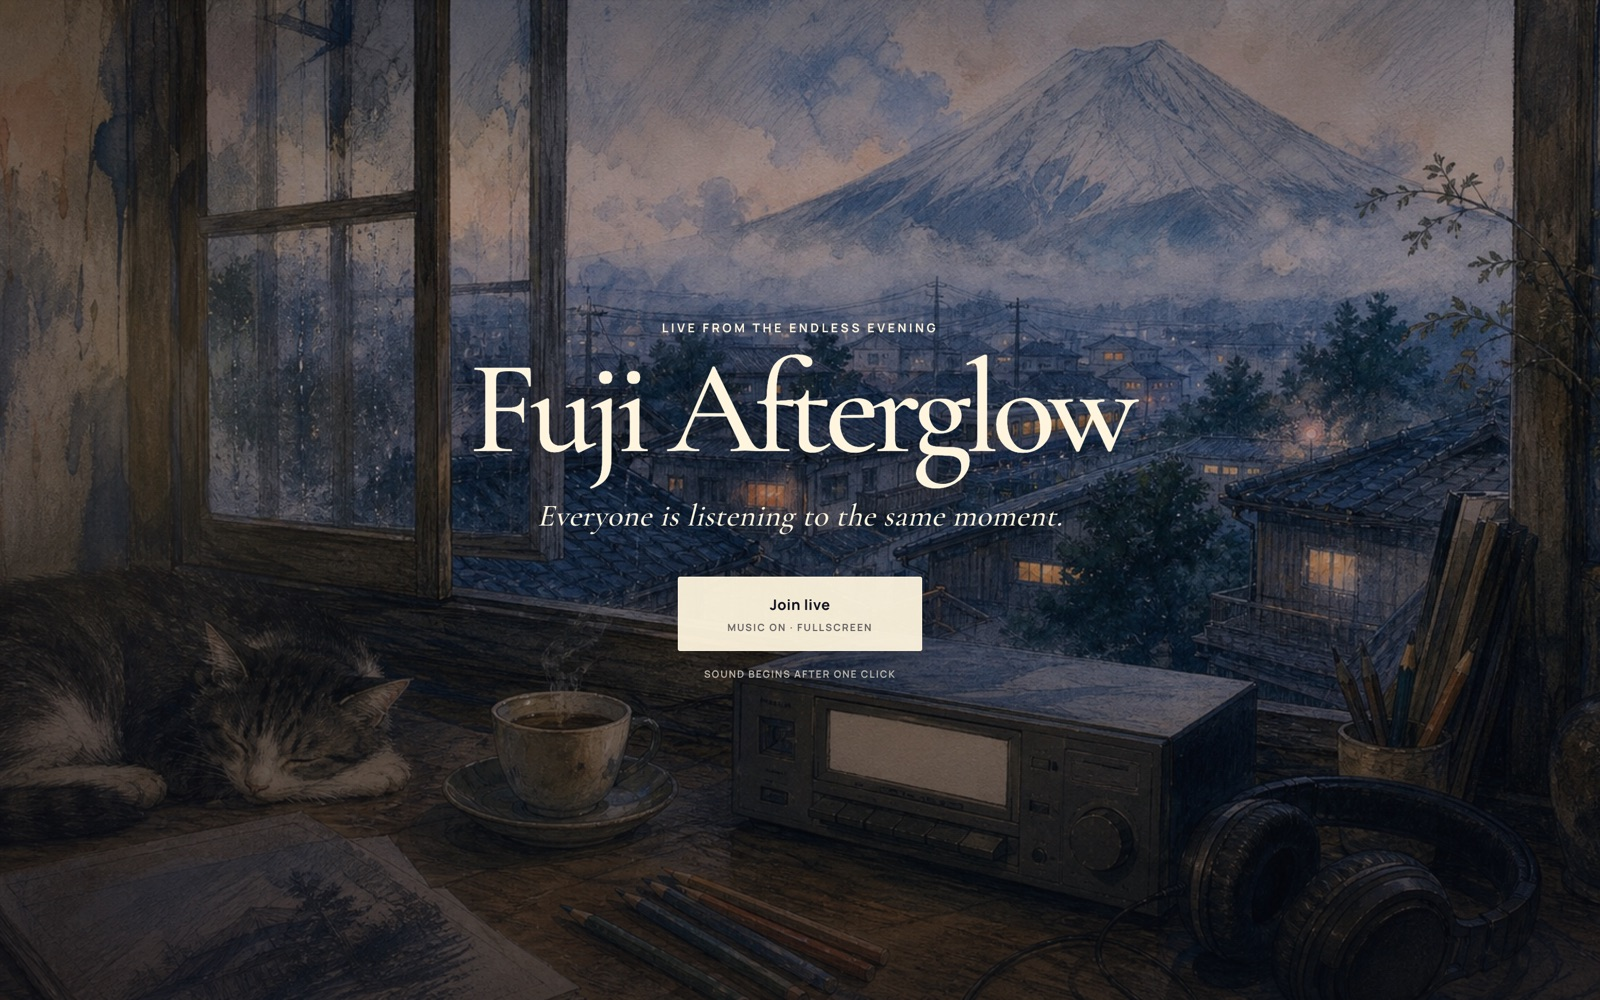
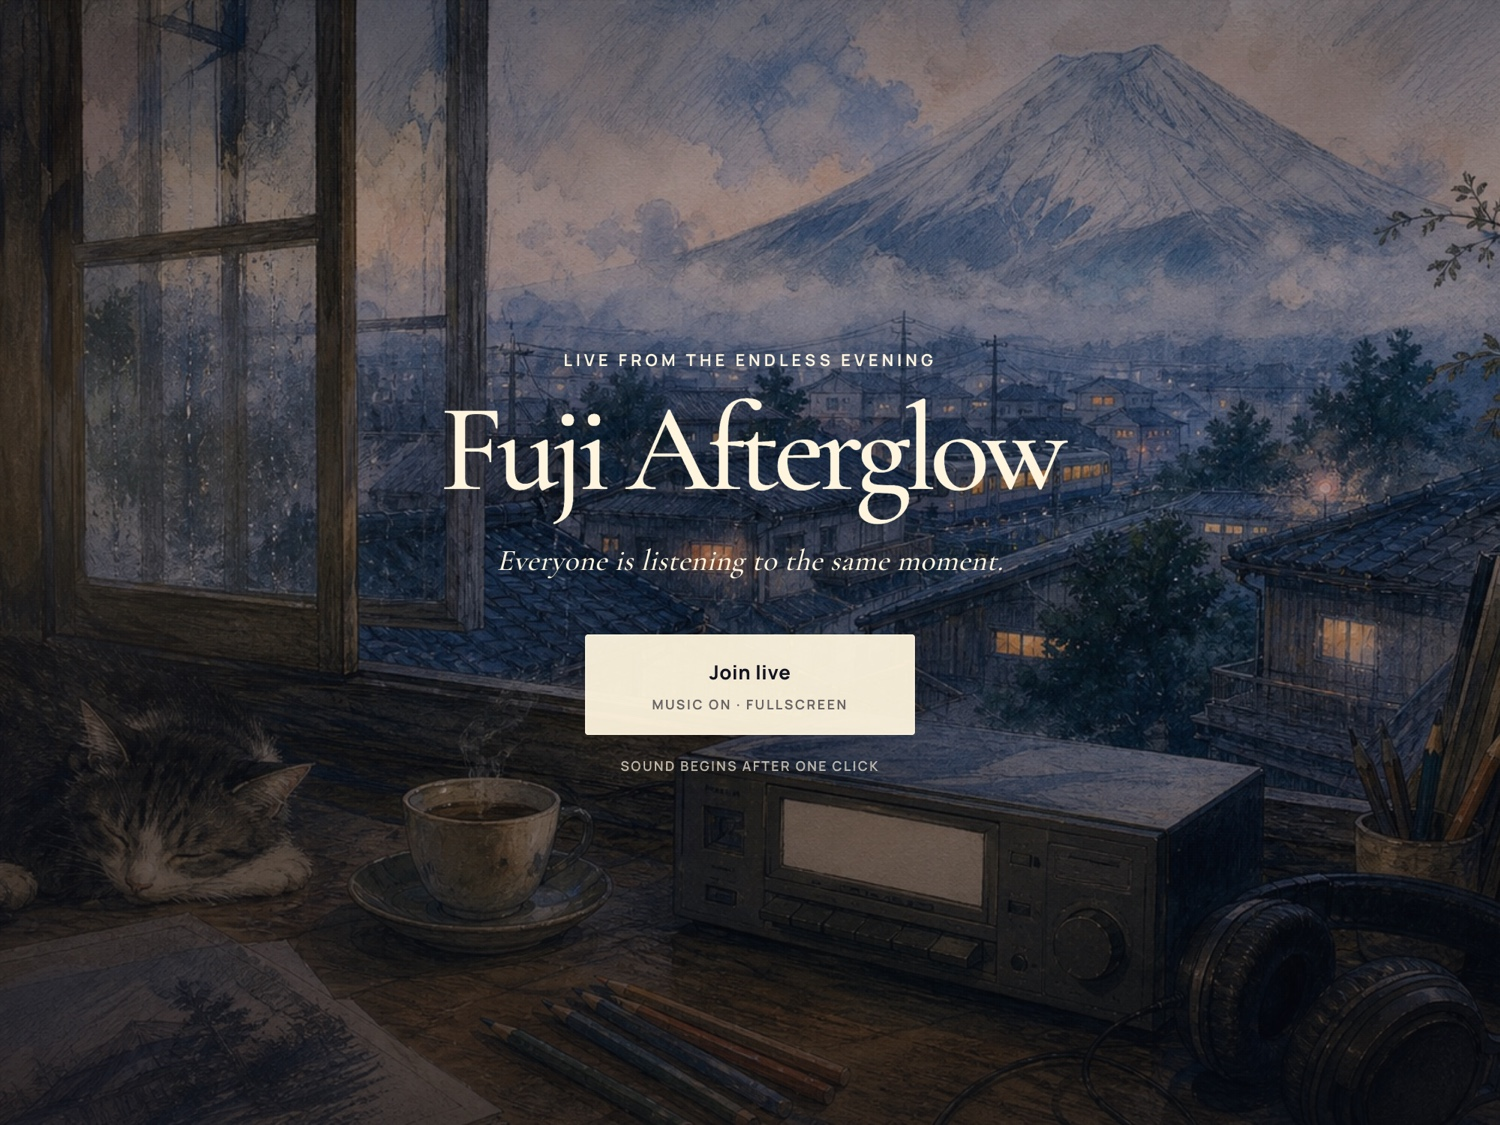
Recapture screenshots at a narrower viewport; fix side-cropping
The previews looked mushy and it wasn't an image-quality problem: the
sources were already 1600x1000 against a ~380px tile. The cause was
scale — a 1440px page squeezed into 380px is a 3.8x reduction, so 13px
body text rendered at 3.4px.

Recaptured at a 1000x750 viewport (DPR 2 -> downscaled to 1500x1125,
q92 since text-heavy shots put JPEG artefacts on glyph edges). At 1000px
it's a 2.6x reduction and the hero headlines survive at ~12-15px.

Also fixed side-cropping. The image box is not the container: the
container is aspect-16/10 but the img carries a parallax overscan, so
its box is 1.6/overscan. At h-[120%] that box was 1.33, and 16:10
sources inside it made object-cover crop the sides — which clipped
"Leland Plays Piano" to "eland Plays Piano". Sources are now 4:3 and the
overscan is h-[112%] (box 1.43), so cover trims top and bottom instead,
which is harmless with top-aligned content. Parallax range cut to
±13-19px to stay inside the smaller overscan.

gcoolers is captured at scroll 330 rather than the top — the top of that
page is a wordmark on black, nearly empty at tile size. 330 catches the
install command and the live TUI with its temperature bars.

These stay real screenshots. Each tile names a host and links to it, so
a generated image there would be a fabricated picture of a real site.

Claude-Session: https://claude.ai/code/session_01QviESns6p6ZCC7PWfhugud

diff --git a/src/components/VisualIndex.tsx b/src/components/VisualIndex.tsx
@@ -48,8 +48,11 @@ function Tile({ project: p, index }: { project: Project; index: number }) {
     offset: ["start end", "end start"],
   });
   // each tile drifts at its own rate, so the row never moves as one slab
-  // Range kept inside the image's 20% vertical overflow so no edge is ever exposed.
-  const y = useTransform(scrollYProgress, [0, 1], [20 + index * 4, -20 - index * 4]);
+  // Overscan is 12%, so the parallax range has to stay inside it or an edge shows.
+  // The sources are now 4:3 and the image box is 1.6/1.12 = 1.43, which means
+  // object-cover trims top and bottom rather than the sides — at 16:10 sources
+  // with a 20% overscan it cropped horizontally and clipped "Leland" to "eland".
+  const y = useTransform(scrollYProgress, [0, 1], [13 + index * 3, -13 - index * 3]);
   const scale = useTransform(scrollYProgress, [0, 0.5, 1], [1.04, 1, 1.04]);
 
   const l = layout[index % layout.length];
@@ -91,7 +94,7 @@ function Tile({ project: p, index }: { project: Project; index: number }) {
             src={p.shot}
             alt={p.shotAlt}
             style={{ y, scale }}
-            className="absolute inset-x-0 -top-[10%] h-[120%] w-full object-cover object-top"
+            className="absolute inset-x-0 -top-[6%] h-[112%] w-full object-cover object-top"
             loading="lazy"
             decoding="async"
           />

diff --git a/DESIGN.md b/DESIGN.md
@@ -608,3 +608,45 @@ width   height   overflowX   stack chips   github bubbles   bar segments
  375     5,338       0            75             16              8
 ```
 No console errors at any width.
+
+---
+
+## Fix: the screenshots were a scale problem, not a quality problem (12 Sep 2026)
+
+The previews looked mushy, and the instinct was to make the images "better". The sources were
+already 1600×1000 against a ~380px tile — far more resolution than needed. The real cause was
+**scale**: a whole 1440px-wide page squeezed into 380px is a 3.8× reduction, so 13px body text
+rendered at **3.4px**. No amount of image quality fixes that.
+
+**Capture at a narrower viewport instead.** At 1000px it's a 2.6× reduction and the hero headlines
+survive at roughly 12–15px, which is the only reason to show a screenshot at all.
+
+```
+capture   1000 × 750 at DPR 2  →  2000 × 1500  →  downscaled to 1500 × 1125, JPEG q92
+```
+q92, not q80 — these are text-heavy shots and JPEG artefacts land straight on the glyph edges.
+
+### Why 4:3 and not 16:10
+The image box is not the container. The container is `aspect-[16/10]`, but the img carries an
+overscan for the parallax, so its box is `1.6 / overscan`. At the old `h-[120%]` that made the box
+**1.33**, and 16:10 sources inside a 1.33 box meant `object-cover` cropped the *sides* — which is
+what clipped "Leland Plays Piano" to "eland Plays Piano".
+
+Now: sources are 4:3, overscan is `h-[112%]` (box 1.43), so cover trims top and bottom instead —
+harmless, since the content is top-aligned. The parallax range was cut to ±13–19px to stay inside
+the smaller overscan; exceed it and a bare edge shows.
+
+**The rule:** whenever the overscan or the source aspect changes, the other has to change with it,
+and the parallax range has to fit inside whatever overscan remains.
+
+### Framing
+`gcoolers` is captured at scroll 330 rather than the top. The top of that page is just a wordmark
+on black — nearly empty at tile size. Scroll 330 catches the install buttons, the brew command and
+the live TUI dashboard with its temperature bars, which is what the product actually looks like.
+`leland` and `afterglow` are captured at the top; both lead with a large serif headline that
+survives the reduction.
+
+### Not generated
+These stay real screenshots. Each tile names a host and links to it, so a generated image in that
+slot would be a fabricated picture of a real, identifiable site. Generated imagery is fine for
+things that don't stand in for something real — an OG card, background art — but not here.
